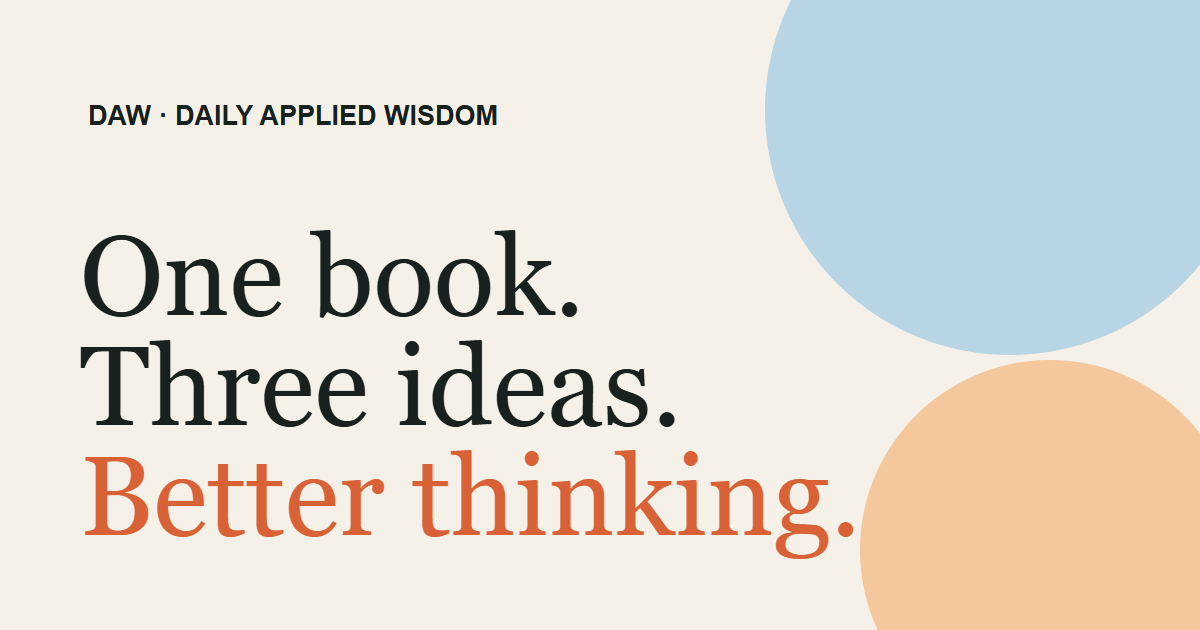
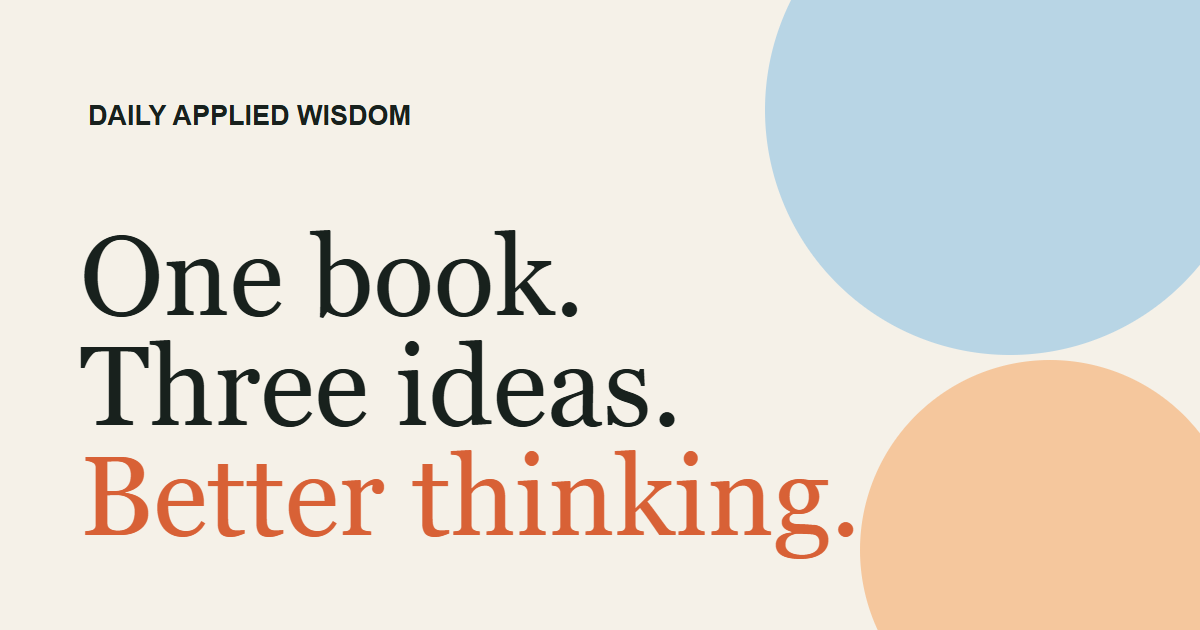
Show full site title in masthead

Changed region(s): [[0.0925, 0.1508, 0.4317, 0.2111]]

diff --git a/styles.css b/styles.css
@@ -26,8 +26,7 @@ button, a { -webkit-tap-highlight-color: transparent; }
 .skip-link { position: fixed; left: 1rem; top: -5rem; z-index: 99; background: var(--ink); color: white; padding: .8rem 1rem; }
 .skip-link:focus { top: 1rem; }
 .site-header { min-height: 80px; display: flex; justify-content: space-between; align-items: center; padding: 0 5vw; border-bottom: 1px solid var(--line); background: color-mix(in srgb, var(--paper) 94%, transparent); position: relative; z-index: 5; }
-.brand { color: inherit; text-decoration: none; font-weight: 700; letter-spacing: -.1em; font-size: 1.3rem; }
-.brand span { color: var(--red); }
+.brand { color: inherit; text-decoration: none; font-weight: 700; letter-spacing: -.03em; font-size: 1.05rem; white-space: nowrap; }
 nav { display: flex; gap: 1.6rem; }
 nav a { color: inherit; text-decoration: none; font-size: .85rem; font-weight: 600; }
 .eyebrow, .category { font: 500 .72rem var(--mono); letter-spacing: .08em; text-transform: uppercase; }
@@ -152,6 +151,13 @@ footer { display: flex; justify-content: space-between; gap: 1rem; flex-wrap: wr
   .lesson-pagination { grid-template-columns: 1fr; }
   .lesson-pagination a.next { text-align: left; align-items: flex-start; }
   footer { padding: 1.5rem 7vw; }
+}
+
+@media (max-width: 480px) {
+  .site-header { min-height: 72px; padding: 0 4vw; }
+  .brand { font-size: .92rem; }
+  nav { gap: .6rem; }
+  nav a { font-size: .75rem; }
 }
 
 @media (prefers-reduced-motion: reduce) {

diff --git a/lessons/software-engineering-at-google.html b/lessons/software-engineering-at-google.html
@@ -24,7 +24,7 @@
   <body class="lesson-page">
     <a class="skip-link" href="#main">Skip to content</a>
     <header class="site-header">
-      <a class="brand" href="../index.html" aria-label="Daily Applied Wisdom home">DAW<span>·</span></a>
+      <a class="brand" href="../index.html" aria-label="Daily Applied Wisdom home">Daily Applied Wisdom</a>
       <nav aria-label="Main navigation">
         <a href="../index.html#latest">Latest</a>
         <a href="../index.html#library">Library</a>

diff --git a/lessons/team-topologies.html b/lessons/team-topologies.html
@@ -24,7 +24,7 @@
   <body class="lesson-page">
     <a class="skip-link" href="#main">Skip to content</a>
     <header class="site-header">
-      <a class="brand" href="../index.html" aria-label="Daily Applied Wisdom home">DAW<span>·</span></a>
+      <a class="brand" href="../index.html" aria-label="Daily Applied Wisdom home">Daily Applied Wisdom</a>
       <nav aria-label="Main navigation">
         <a href="../index.html#latest">Latest</a>
         <a href="../index.html#library">Library</a>

diff --git a/lessons/the-design-of-everyday-things.html b/lessons/the-design-of-everyday-things.html
@@ -24,7 +24,7 @@
   <body class="lesson-page">
     <a class="skip-link" href="#main">Skip to content</a>
     <header class="site-header">
-      <a class="brand" href="../index.html" aria-label="Daily Applied Wisdom home">DAW<span>·</span></a>
+      <a class="brand" href="../index.html" aria-label="Daily Applied Wisdom home">Daily Applied Wisdom</a>
       <nav aria-label="Main navigation">
         <a href="../index.html#latest">Latest</a>
         <a href="../index.html#library">Library</a>

diff --git a/lessons/the-goal.html b/lessons/the-goal.html
@@ -24,7 +24,7 @@
   <body class="lesson-page">
     <a class="skip-link" href="#main">Skip to content</a>
     <header class="site-header">
-      <a class="brand" href="../index.html" aria-label="Daily Applied Wisdom home">DAW<span>·</span></a>
+      <a class="brand" href="../index.html" aria-label="Daily Applied Wisdom home">Daily Applied Wisdom</a>
       <nav aria-label="Main navigation">
         <a href="../index.html#latest">Latest</a>
         <a href="../index.html#library">Library</a>

diff --git a/lessons/thinking-in-systems.html b/lessons/thinking-in-systems.html
@@ -24,7 +24,7 @@
   <body class="lesson-page">
     <a class="skip-link" href="#main">Skip to content</a>
     <header class="site-header">
-      <a class="brand" href="../index.html" aria-label="Daily Applied Wisdom home">DAW<span>·</span></a>
+      <a class="brand" href="../index.html" aria-label="Daily Applied Wisdom home">Daily Applied Wisdom</a>
       <nav aria-label="Main navigation">
         <a href="../index.html#latest">Latest</a>
         <a href="../index.html#library">Library</a>

diff --git a/index.html b/index.html
@@ -22,7 +22,7 @@
   <body>
     <a class="skip-link" href="#main">Skip to content</a>
     <header class="site-header">
-      <a class="brand" href="index.html" aria-label="Daily Applied Wisdom home">DAW<span>·</span></a>
+      <a class="brand" href="index.html" aria-label="Daily Applied Wisdom home">Daily Applied Wisdom</a>
       <nav aria-label="Main navigation">
         <a href="index.html#latest">Latest</a>
         <a href="index.html#library">Library</a>
